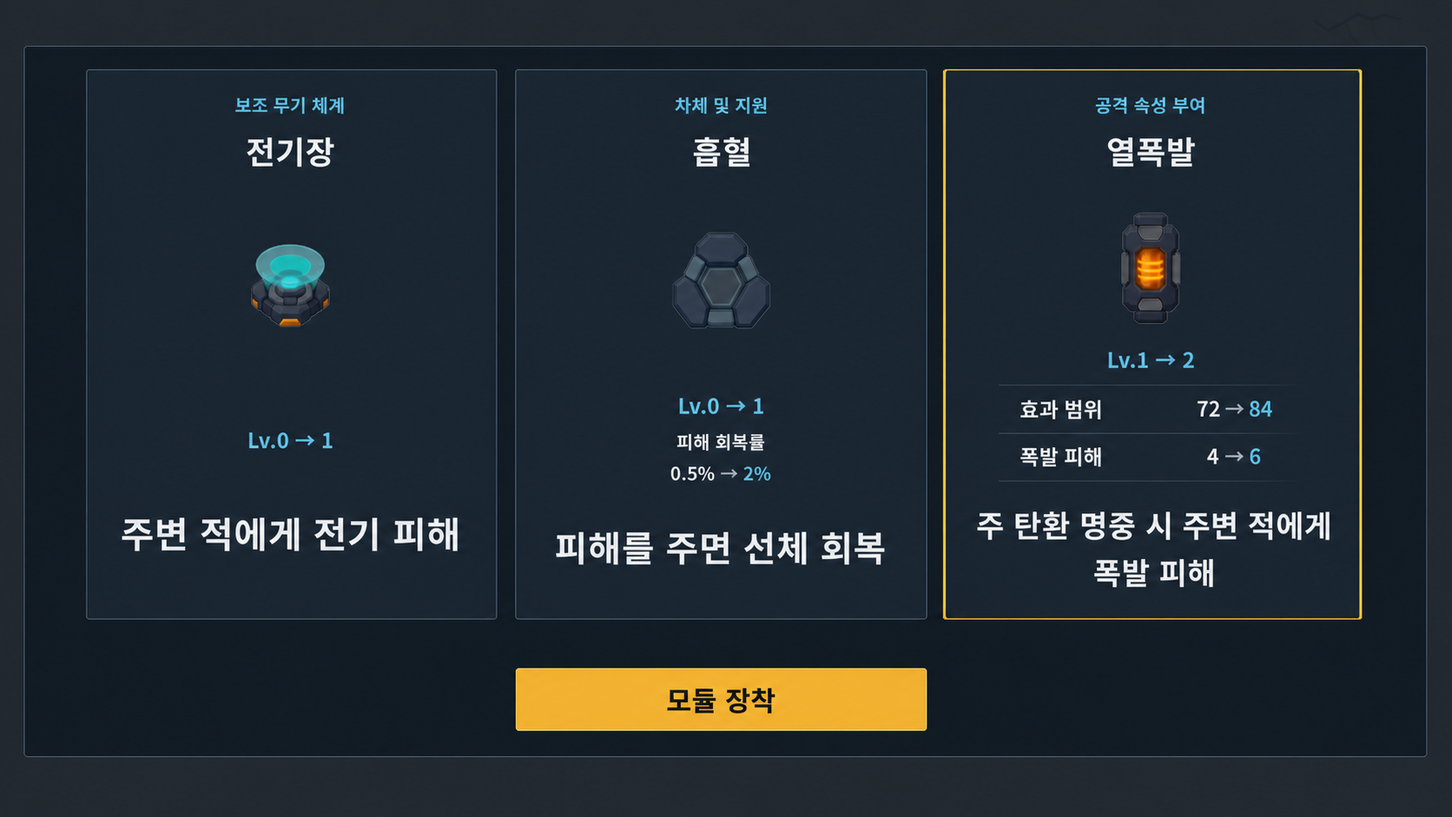
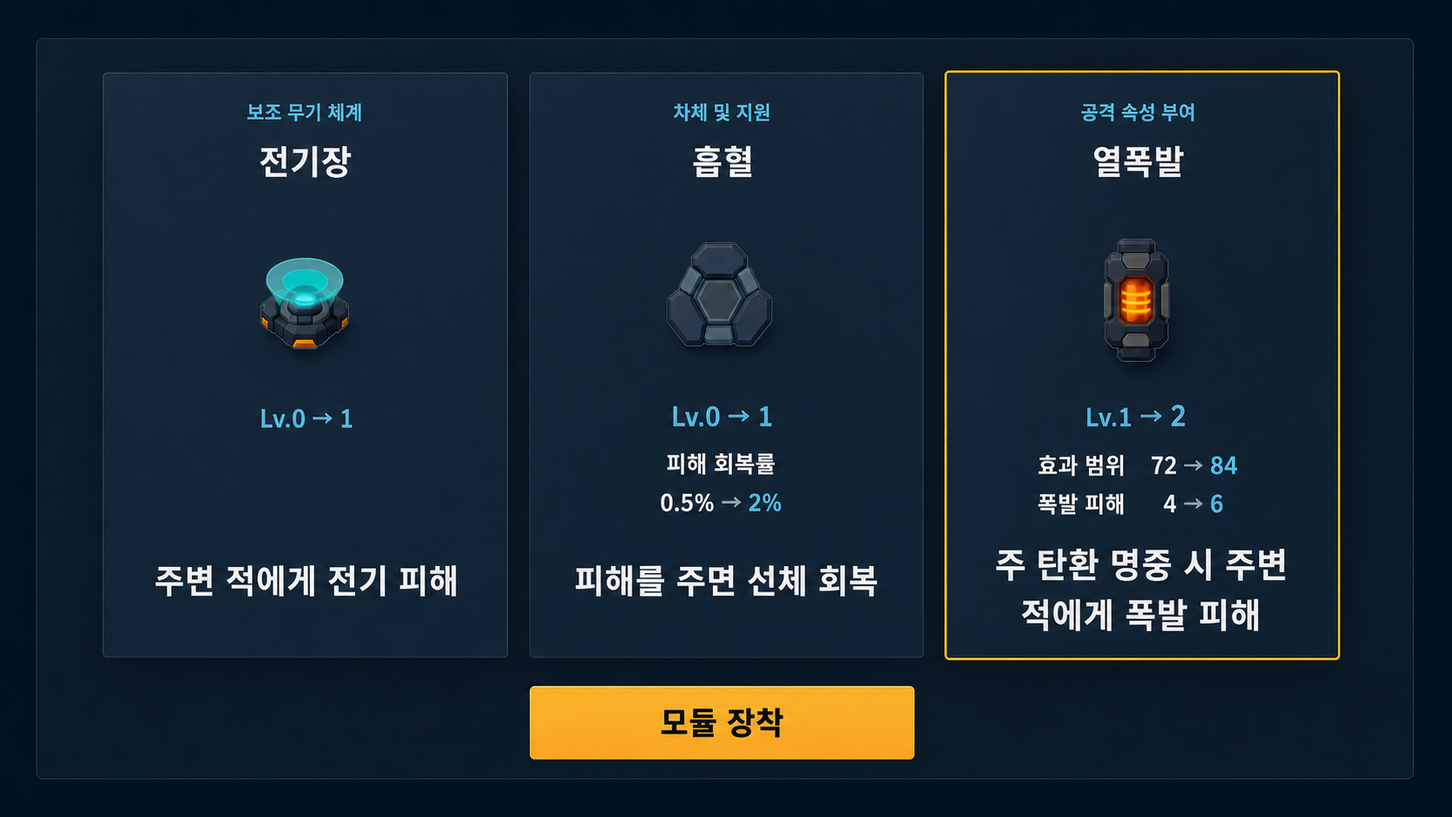
docs: revise combat feedback mockups

diff --git a/.agents/execplans/2026-08-08-combat-pressure-and-surface-depth.md b/.agents/execplans/2026-08-08-combat-pressure-and-surface-depth.md
@@ -20,11 +20,12 @@ Deliver a harder-to-cheese but less front-loaded five-stage run and restore the 
 feedback loop. The completed portion removes neutral hazards, applies the selected ordinary-health
 curve, makes role movement distance-aware, strengthens boss shielding, replaces Thermal Burn with
 bounded Thermal Burst damage, integrates sparse approved surface detail, and replaces the boxed
-straight-beam strip. The remaining portion restores visible XP progress, prevents late-run level
+straight-beam strip. The remaining portion restores unmistakable XP progress, prevents late-run level
 rewards from disappearing when fewer than three legal cards remain, makes elemental upgrades show
 their real current-to-next values, restores restrained nearby-enemy direction cues, differentiates
-minimap roles, adds bounded elemental hit feedback, and stops the boss shield from masking authored
-boss bodies. The verified implementation baseline for this revision is `b9a41aee`; current HEAD
+minimap roles, makes Electric Field show its complete damage area without reading as a shield, adds
+bounded elemental hit feedback, and stops the boss shield from masking authored boss bodies. The
+verified implementation baseline for this revision is `b9a41aee`; current HEAD
 still has no eligible native/Web release-performance qualification, so the exact final workload is
 measured once after all remaining behavior and visual work is complete.
 
@@ -34,7 +35,7 @@ measured once after all remaining behavior and visual work is complete.
   elemental, surface, beam, and frame-pacing outcomes as one decision-complete sequence with
   independent causal commits.
 - Deliverable: updated gameplay and movement rules; a truthful bilingual XP and upgrade flow;
-  retained HUD, threat-radar, minimap, projectile, status, and shield presentation; approved
+  retained HUD, threat-radar, minimap, Electric Field, projectile, status, and shield presentation; approved
   production surface SVGs, beam raster, and any separately approved Thermal impact raster;
   focused validators; production Web export; and eligible native/Web performance evidence.
 - Completion state: neutral hazards no longer exist; ordinary health uses the locked five-stage
@@ -42,7 +43,9 @@ measured once after all remaining behavior and visual work is complete.
   damage and remain visually identifiable; Thermal Burst applies bounded enemy-only splash with
   bounded impact feedback; XP progress and late-run rewards never disappear silently; upgrade
   copy shows true level deltas; nearby off-screen enemies and distinct minimap roles are readable;
-  Toxin/Cryo states are visible without per-enemy nodes; the floor and straight beams retain the
+  Electric Field fills the exact `120/140/160` damage disk in Arc purple instead of reusing shield
+  language; Toxin/Cryo states are visible as same-silhouette translucent body overlays without
+  per-enemy nodes; the floor and straight beams retain the
   approved presentation; and all correctness, visual, export, and performance gates pass from the
   exact clean final commit.
 
@@ -70,8 +73,9 @@ In scope:
 - Replace the current dark-bordered `cue/beam_strip_9` raster with a tintable flat alpha mask and
   retune the existing two-plane startup/three-plane active composition for Beam Sentinel and boss
   straight beams.
-- Restore a slim panel-free XP rail and level value under the top-center hull/upgrade zone. Publish
-  XP through the reusable fast-HUD snapshot instead of rebuilding the full build snapshot.
+- Restore a slim panel-free XP rail and level value under the top-center hull/upgrade zone. Label
+  the value with the literal `EXP` so the rail cannot be mistaken for the hull bar. Publish XP
+  through the reusable fast-HUD snapshot instead of rebuilding the full build snapshot.
 - Permit one, two, or three legal upgrade choices near catalog exhaustion. Show an explicit
   localized `MAX` progression state only when zero compatible upgrades remain; never consume a
   pending level through a warning-only path.
@@ -82,9 +86,13 @@ In scope:
 - Expand the minimap's bounded semantic roles to distinguish field pickup, reward crate, Mystery
   Device, mobile enemy, fixed priority enemy, boss, and reinforcement facility by shape as well as
   color.
+- Replace the current Mint Electric Field ring with an Arc-purple, ground-attached, low-alpha filled
+  disk at the exact `120/140/160` gameplay radii. The enemy body-overlap rule remains gameplay truth;
+  the visual adds no collision owner and does not reuse player/enemy shield geometry.
 - Add one separately approved, bounded Thermal impact identity at the direct hit point and add
-  Toxin/Cryo application and persistent status tint through retained enemy-batch data. Do not add
-  one node, raster, or timer object per affected enemy.
+  Toxin/Cryo application and persistent status tint as a same-size, actor-alpha-clipped overlay
+  composed through retained enemy-batch data. Do not add one node, raster, material, or timer object
+  per affected enemy.
 - Reduce the shared boss-shield overlay's visual dominance and give the boss minimap marker a
   command-color notched shape. Preserve the five existing authored boss PNG identities.
 - Diagnose the reported hitch from eligible evidence and make only an evidence-selected,
@@ -106,8 +114,8 @@ Out of scope:
 - A Thermal world-radius telegraph, persistent ring, particle system, new sound asset, per-splash-
   target effect, or frame-animation pack. The permitted impact is one short authored identity at
   each eligible direct hit, scaled to the actual burst radius.
-- Persistent Toxin/Cryo rings, status icons, orbit markers, per-enemy labels, repeated strobing,
-  damage numbers, or separate status rasters.
+- Persistent Toxin/Cryo rings, outlines, enlarged silhouettes, status icons, orbit markers,
+  per-enemy labels, repeated strobing, damage numbers, or separate status rasters.
 - Recoloring the Seeker as if it inherited the selected primary element; its authored identity and
   gameplay payload remain separate from player-primary affinity.
 - Redrawing the five boss bodies in this pass. If shield reduction does not reveal their existing
@@ -139,10 +147,13 @@ Constraints and invariants:
 - The world renderer stays retained. Surface instances use at most three existing-style
   `MultiMeshInstance2D` batches, zero per-instance nodes, zero per-frame transform updates, and
   keep `MAX_VISUAL_BATCHES <= 12`.
-- Minimap and threat feedback remain code-native retained meshes. Status feedback is composed into
-  existing enemy instance colors. Thermal impact uses the fixed 96-state effect store with a
+- Minimap and threat feedback remain code-native retained meshes. Electric Field uses one bounded
+  retained code-native area batch because it visualizes collision-owned radius truth; it creates no
+  per-frame or per-target nodes and stays beneath actors. Status feedback is composed into existing
+  enemy instance colors with the authored body alpha acting as the exact overlay mask. Thermal
+  impact uses the fixed 96-state effect store with a
   dedicated live cosmetic sub-limit and must never evict EMP charge/release state.
-- The four images under
+- The five images under
   `docs/design/visual-replacement-workbench/candidates/progression-feedback-combat-readability-v1/`
   are approval-before-implementation composition references only. They do not approve production
   pixels, replace exact runtime capture, or override this contract.
@@ -204,14 +215,15 @@ Exact actions requiring owner or user approval:
 | Comparable-game evidence | Official Into the Breach material supports deterministic, immediately readable combat; public primary sources for Into the Breach, Wasteland Kings, and Spelunky do not disclose exact floor-decal batching. | GDC postmortem and official game pages; Godot official docs | Do not claim an unverified clone technique. Use comparable games only for sparse/readable/deterministic principles; choose the renderer from Cardborne architecture and official Godot guidance. | 5.1, 6.4 |
 | Reported hitch | Current HEAD has no eligible performance JSON. The last eligible older sample showed frame p95 143 ms with physics catch-up and simulation/HUD cost while render CPU/GPU were low. Later allocator prewarm improved a diagnostic but was never release-qualified. On 2026-08-08, 16 unrelated Godot processes prevented a clean run. | Active performance plan; runtime architecture audit; historical JSON | Make no current root-cause claim. First qualify clean current HEAD, then repeat after all feature work. Optimize only the subsystem selected by a valid trace/sample; never blame new PNGs by intuition. | 1.1-1.4, 10.3-10.4 |
 | Performance fixture mismatch | Renderer capacity and visual contract are 28 health overlays, but the performance scenario and its validator still require 50. Release batch threshold remains at most 50. | combat renderer, visual system, renderer validator, performance scenario and validator | Change only the scenario fixture expectation from 50 to 28; retain the release threshold `batches <= 50`. A failing focused validator blocks all expensive samples. | 1.1 |
-| Missing XP feedback | `VehicleExperienceRuntime` still advances levels with the capped formula `min(160, 12 + round(3n + 0.55n^2))`. `VehicleGameplayHud.HealthPips` still stores XP fields, but `_fill_fast_hud_snapshot` omits them and `debug_contract()` asserts `has_experience_geometry=false`; the product and visual specs explicitly removed the rail. | `scripts/progression/vehicle_experience_runtime.gd`; `scripts/vehicle/vehicle_run.gd`; `scripts/ui/vehicle_gameplay_hud.gd`; product/visual specs | Restore a slim panel-free XP rail and level value in the existing top-center zone. Publish only scalar level/current/required/MAX fields through the fast HUD snapshot; do not rebuild the full build summary at HUD cadence. | 7.1-7.2 |
+| Missing XP feedback | `VehicleExperienceRuntime` still advances levels with the capped formula `min(160, 12 + round(3n + 0.55n^2))`. `VehicleGameplayHud.HealthPips` still stores XP fields, but `_fill_fast_hud_snapshot` omits them and `debug_contract()` asserts `has_experience_geometry=false`; the product and visual specs explicitly removed the rail. | `scripts/progression/vehicle_experience_runtime.gd`; `scripts/vehicle/vehicle_run.gd`; `scripts/ui/vehicle_gameplay_hud.gd`; product/visual specs | Restore a slim panel-free XP rail and level value in the existing top-center zone. Show literal `EXP` beside the numeric value so it cannot read as a second hull bar. Publish only scalar level/current/required/MAX fields through the fast HUD snapshot; do not rebuild the full build summary at HUD cadence. | 7.1-7.2 |
 | Stage 4 level-up symptom | XP collection and stage gains have no Stage 4 cap. The failure is the reward gate: `_open_upgrade_reward()` requires exactly three cards and otherwise logs a warning, resolves the transaction, and `consume_pending_level()` removes the pending level. Catalog compatibility shrinks late in a run due to max levels, element exclusion, and optional-secondary limits. | `VehicleRun._open_upgrade_reward/_resolve_reward_transaction`; `VehicleUpgradeCatalog.offer`; experience/upgrade validators | Accept one to three legal cards and center only visible cards. Zero legal cards enters an explicit localized progression-complete `MAX` receipt, stops future XP drops/awards, and never uses a warning-only silent consume path. | 7.1, 7.4 |
 | Element card truth | The presenter can distinguish `unlock` and `enhance`, but element resources have no stat modifiers, so their visible descriptions remain static and show no real level deltas. Runtime values live only in `VehicleElementProfile`: Thermal radius `72/84/96`, damage `4/6/8`; Toxin DPS/stack `2/3/4`, duration `5/6/7`; Cryo slow/stack `6/8/10%`, duration `2/2.5/3`, with boss Chill effectiveness halved. | `vehicle_upgrade_offer_presenter.gd`; element card resources; `vehicle_element_profile.gd`; `vehicle_status_runtime.gd` | Make one gameplay-owned level-value descriptor consumable by runtime and offer presenter. First acquisition shows behavior plus initial values; enhancements show exact current-to-next rows. Korean and English remain complete; UI does not copy value arrays. | 7.3-7.4 |
 | Nearby direction cue | Commit `b9e66b86` narrowed threat radar to unseen committed projectile attacks and boss arrival. The retained mesh still has 12 sectors, a 1200-unit maximum, sector aggregation, and five-hertz publication. Ordinary off-screen location is minimap-only. | `VehicleRun._threat_radar_snapshot`; `VehicleThreatRadar`; `VehicleCombatCuePolicy`; git history | Add low-priority `nearby_enemy` contacts only for nearby enemies outside the viewport. Aggregate by existing sectors, vary width by density/proximity, draw no triangle, and let incoming attack and boss arrival win the sector. Visible enemies remain excluded and the minimap owns exact location. | 8.1-8.2 |
 | Minimap role collapse | Snapshot creation emits pickups, crates, and intact Mystery Devices as `item`; mobile and fixed ordinary enemies as `enemy`; builder supports only item/enemy/boss/facility plus player. The large neutral Mystery Device can therefore disappear into pickup semantics. Boss differs mainly by size. | `VehicleRun._minimap_snapshot/_runtime_minimap_snapshot`; `VehicleMinimapMeshBuilder`; UI glyph catalog | Use eight bounded roles: player, field pickup, reward crate, Mystery Device, mobile enemy, fixed priority enemy, boss, and reinforcement facility. Distinguish shape as well as semantic color; keep Mystery Device outcome hidden; use one notched command-magenta boss marker instead of arbitrary per-stage colors. | 8.1, 8.3-8.4 |
-| Projectile affinity and persistent status feedback | Player-primary projectile tint already follows Thermal/Toxin/Cryo; Seeker and hostile bolt intentionally keep authored identities. Generic enemy hit feedback is a short common flash. Renderer input does not expose Toxin/Chill stacks or application time, so persistent status has no direct body feedback. | `VehicleCombatRenderer`; `VehicleAttackContract`; `VehicleStatusRuntime`; current renderer/status validators | Preserve primary-only affinity tint and Seeker identity. Publish bounded status stack ratios plus one application pulse receipt in the enemy presentation frame; compose Toxin/Cryo tint into existing instance colors. Generic damage flash wins briefly, then status tint returns. Reduced motion removes the pulse/strobe but preserves static state tint. | 9.2-9.3, 9.5 |
-| Boss visual identity | Five boss variants already resolve separate authored PNGs. The shared large opaque magenta shield boundary masks their silhouette and makes them read alike. The minimap boss marker is a larger plain hexagon. | actor visual catalog; combat renderer; current boss captures; `boss-shield-readability-to-be.png` | Preserve all boss PNGs. Reduce shield fill/thickness/opacity to one restrained body-attached boundary, then validate all five at 1x and grayscale. Change only the minimap marker to a notched command shape. Open per-boss art replacement only if authored bodies remain indistinct after the shield fix. | 8.3-8.4, 9.4-9.5 |
-| TO-BE visual evidence | The latest production capture set is the Korean 87-image `beam-production-655e0ee2` set. It predates `b9a41aee` only by documentation/workbench and Thermal-copy changes. Four ImageGen edits used the relevant current capture and the canonical sheet as actual referenced images. | `docs/design/visual-replacement-workbench/candidates/progression-feedback-combat-readability-v1/README.md`; capture manifest; git diff `655e0ee2..b9a41aee` | Use the four images for composition, hierarchy, and expected-state discussion only. Runtime owners, exact copy, supported viewports, and task acceptance below remain binding; no generated pixels are production-approved. | 7.2-9.5 |
+| Electric Field area and shield collision | `VehicleSecondaryRuntime` damages every eligible enemy whose body overlaps radii `120/140/160` at a `0.25s` tick and passes line of sight. `VehicleCombatRenderer` duplicates those radii in `ELECTRIC_FIELD_RADII` and draws only a Mint `cue/ring` at alpha `0.48`. Player barrier and enemy shields use the same Mint ring family, so the damage field reads as protection and its interior is visually empty. | `data/weapons/vehicle/secondary/electric_field.tres`; `scripts/player/vehicle_secondary_runtime.gd`; `scripts/presentation/vehicle_combat_renderer.gd`; `30-boss-04-stage-4-active.png` | Make the secondary definition/snapshot the single radius source. Draw one low-alpha Arc-purple filled disk below actors at `120/140/160`, with one restrained broken perimeter and at most four broad internal planes. The disk represents the field volume; damage still begins when an enemy body overlaps it. Do not reuse Mint/support shield geometry or create a second collision owner. | 8.1, 9.4, 9.6 |
+| Projectile affinity and persistent status feedback | Player-primary projectile tint already follows Thermal/Toxin/Cryo; Seeker and hostile bolt intentionally keep authored identities. Generic enemy hit feedback is a short common flash. Renderer input does not expose Toxin/Chill stacks or application time, so persistent status has no direct body feedback. | `VehicleCombatRenderer`; `VehicleAttackContract`; `VehicleStatusRuntime`; current renderer/status validators | Preserve primary-only affinity tint and Seeker identity. Publish bounded status stack ratios plus one application pulse receipt in the enemy presentation frame. Visually treat the actor's authored alpha as an exact same-size overlay mask: no enlarged silhouette, perimeter, halo, or external geometry. Generic damage flash wins briefly, then the Toxin/Cryo body overlay returns. Reduced motion removes the pulse change but preserves the static overlay. | 9.2-9.3, 9.6 |
+| Boss visual identity | Five boss variants already resolve separate authored PNGs. The shared large opaque magenta shield boundary masks their silhouette and makes them read alike. The minimap boss marker is a larger plain hexagon. | actor visual catalog; combat renderer; current boss captures; `boss-shield-readability-to-be.png` | Preserve all boss PNGs. Reduce shield fill/thickness/opacity to one restrained body-attached boundary, then validate all five at 1x and grayscale. Change only the minimap marker to a notched command shape. Open per-boss art replacement only if authored bodies remain indistinct after the shield fix. | 8.3-8.4, 9.5-9.6 |
+| TO-BE visual evidence | The latest production capture set is the Korean 87-image `beam-production-655e0ee2` set. It predates `b9a41aee` only by documentation/workbench and Thermal-copy changes. Five ImageGen edits used the relevant current capture and the canonical sheet as actual referenced images. The first over-scaled combined HUD/field generation was rejected and not copied into the repository. | `docs/design/visual-replacement-workbench/candidates/progression-feedback-combat-readability-v1/README.md`; capture manifest; git diff `655e0ee2..b9a41aee` | Use the five repository images for composition, hierarchy, and expected-state discussion only. Runtime owners, exact copy, supported viewports, and task acceptance below remain binding; no generated pixels are production-approved. | 7.2-9.6 |
 
 Readiness statement:
 
@@ -227,7 +239,7 @@ Readiness statement:
   the canonical sheet was inspected at original detail; expected and observed SHA-256 are both
[1 lines of base64/hex data omitted]
   `actual_image_reference_used=true`; reference input method was
-  `image_gen.referenced_image_paths`. All four generated images remain preview-only. For the exact
+  `image_gen.referenced_image_paths`. All five generated images remain preview-only. For the exact
   approved SurfaceDetail SVG exception, `actual_image_reference_used=false`, reference input
   method is `deterministic_surface_detail_svg_exception`, the generator and fixed seeds are
   checked in, and the three selected hashes are recorded above.
@@ -656,9 +668,10 @@ visual specs, and focused XP/upgrade/HUD validators
   - Change: add `level`, `experience`, `experience_required`, and `experience_complete` scalars to
     the reusable fast HUD frame. Draw a panel-free meter below the acquired-upgrade rail in the
     existing top-center zone: compact/standard/large track widths `280/360/420`, height `6/8/8`,
-    current amber fill, dark track, `Lv. N` at left and `current / required` at right. Put `MAX` in
-    the value position when complete. Let the rail follow one- or two-row acquired-upgrade height
-    and keep the toast stack four pixels below it.
+    current amber fill, dark track, `Lv. N` at left and `EXP current / required` at right. The literal
+    `EXP` label is mandatory at every supported width. Put `EXP MAX` in the value position when
+    complete. Let the rail follow one- or two-row acquired-upgrade height and keep the toast stack
+    four pixels below it.
   - Accept: collection updates within the existing fast-HUD cadence; no full build snapshot,
     catalog scan, node rebuild, or allocation occurs per update. The rail fits with 0, 12, and 18
     acquired upgrades at `960x540`, `1280x720`, `1920x1080`, and 200% text without overlapping the
@@ -673,7 +686,9 @@ visual specs, and focused XP/upgrade/HUD validators
     initial values without a false zero-to-value delta; later offers show current-to-next values;
     level three is never offered. Visible row labels are `효과 범위 / Effect radius`,
     `폭발 피해 / Burst damage`, `중독 피해/중첩 / Toxin damage/stack`,
-    `지속 시간 / Duration`, and `감속/중첩 / Slow/stack`.
+    `지속 시간 / Duration`, and `감속/중첩 / Slow/stack`. Separate every card section and effect
+    row with vertical spacing and alignment only. An upgrade card may contain zero horizontal
+    separators, dividers, rules, underlines, row boxes, or line-like background bars in every state.
   - Accept: runtime profile values, card rows, Korean/English labels, build snapshot, stage report,
     and validators all derive identical numbers. Boss Chill's existing half-effect rule is stated
     in accessible/detail copy without changing the displayed base player-owned value.
@@ -711,9 +726,10 @@ Source owners: `docs/product/vehicle_game_spec.md`, `docs/design/VISUAL_SYSTEM.m
 
 - [ ] **8.1** Amend the visual contract narrowly before runtime changes.
   - Change: replace the absolute no-XP, incoming-only radar, five-marker minimap, three-card-only
-    modal, three-effect-only, and text-only persistent-status clauses with the bounded contracts in
-    Phases 7-9. Preserve sparse HUD, one minimap Surface, no full radar circle, no per-enemy status
-    node, no decorative markers, and exact visual-authority/approval requirements.
+    modal, shared-ring Electric Field, three-effect-only, and text-only persistent-status clauses
+    with the bounded contracts in Phases 7-9. Preserve sparse HUD, one minimap Surface, no full
+    radar circle, no per-enemy status node/material, no decorative markers, zero internal upgrade-
+    card horizontal separators, and exact visual-authority/approval requirements.
   - Accept: product and visual specs describe the same reachable states, localization, ownership,
     reduced-motion behavior, capacities, and non-goals; visual-authority validation passes.
 - [ ] **8.2** Add low-priority nearby-enemy contacts to the retained threat radar.
@@ -748,10 +764,10 @@ Source owners: `docs/product/vehicle_game_spec.md`, `docs/design/VISUAL_SYSTEM.m
     grayscale, and reduced-motion review matches the hierarchy in
     `gameplay-hud-minimap-to-be.png` without reproducing its generated pixels.
 
-### Phase 9: Add bounded elemental feedback and reveal boss identity
+### Phase 9: Add bounded elemental feedback, distinguish Electric Field, and reveal boss identity
 
-Goal: make selected-element hits and persistent statuses visible without turning hit feedback into
-an effect storm or hiding boss bodies behind their shields.
+Goal: make selected-element hits and persistent statuses visible, show the complete Electric Field
+damage area without shield ambiguity, and keep boss bodies readable without creating an effect storm.
 
 Preconditions:
 
@@ -762,8 +778,10 @@ Preconditions:
 Source owners: `scripts/combat/vehicle_element_profile.gd`,
 `scripts/combat/vehicle_status_runtime.gd`, enemy state/presentation snapshots,
 `scripts/combat/vehicle_effect_store.gd`, effect/asset catalogs and manifest,
+`data/weapons/vehicle/secondary/electric_field.tres`,
+`scripts/player/vehicle_secondary_runtime.gd`,
 `scripts/presentation/vehicle_combat_renderer.gd`, boss actor catalog, workbench evidence,
-localization, capture fixtures, and focused status/effect/renderer validators
+localization, capture fixtures, and focused secondary/status/effect/renderer validators
 
 - [ ] **9.1** Author and approve one Thermal impact identity.
   - Change: open a dedicated workbench unit for a transparent `192x192` Thermal Burst impact PNG
@@ -787,15 +805,37 @@ localization, capture fixtures, and focused status/effect/renderer validators
     input.
 - [ ] **9.3** Compose Toxin and Cryo state into existing enemy batches.
   - Change: add bounded scalar presentation fields for Toxin/Cryo stack ratio and a `0.16s`
-    application pulse receipt. Mix semantic Toxin/Cryo color into the existing actor instance color
-    at `0.12/0.16/0.20` for stacks 1/2/3; the short application pulse may reach `0.32`. Generic
-    direct-damage flash wins during its existing `0.11s`, then persistent tint returns. Reduced
-    motion omits the pulse boost and keeps only static tint. Do not add status raster, ring, icon,
-    label, node, material, or repeated strobe.
+    application pulse receipt. Compose semantic Toxin/Cryo color through the existing actor
+    instance at `0.12/0.16/0.20` for stacks 1/2/3; this must look exactly like a translucent layer
+    clipped by the authored sprite alpha at the same transform, scale, and silhouette. The short
+    application pulse may reach `0.32`. It changes only overlay alpha and never expands the actor.
+    Generic direct-damage flash wins during its existing `0.11s`, then persistent overlay returns.
+    Reduced motion omits the pulse boost and keeps only the static overlay. Do not add a second
+    draw, status raster, outline, halo, enlarged silhouette, ring, icon, label, node, material, or
+    repeated strobe.
   - Accept: stack gain, refresh, expiry, boss half-Chill, pooled enemy retirement/reuse, generic
     damage flash, stealth/visibility, and grayscale/affinity tests all show correct state with no
-    stale tint. Renderer consumes staged snapshot scalars and never reads live status dictionaries.
-- [ ] **9.4** Reduce boss-shield dominance before considering new boss art.
+    stale tint. Pixel-mask comparison confirms every colored overlay pixel remains inside the
+    unchanged actor alpha and footprint. Renderer consumes staged snapshot scalars and never reads
+    live status dictionaries.
+- [ ] **9.4** Replace the shield-like Electric Field ring with its complete damage area.
+  - Change: remove renderer-owned `ELECTRIC_FIELD_RADII` duplication and publish the selected
+    secondary definition radius `120/140/160` in the borrowed presentation snapshot. Add one
+    capacity-one retained code-native field-area batch below actors: Arc-purple fill alpha `0.10`,
+    one broken perimeter at alpha `0.28`, and at most four broad internal planes at alpha `0.04`.
+    All geometry stays within the exact radius and moves with the player. It has no collision,
+    query, timer, damage, or target owner. Preserve the runtime's `0.25s` tick, LOS test, and enemy-
+    body overlap check `radius + enemy.radius`.
+  - Accept: levels 1/2/3 measure exactly `120/140/160` world units in debug-overlay captures; the
+    full interior is visible at 1x, every eligible overlapping enemy can be visually explained, and
+    player barrier/enemy shield remains Mint while Electric Field is Arc purple and ground-attached.
+    No cyan/mint field, hollow donut, body-hugging bubble, glow, particle spray, repeated ring, or
+    second collision truth remains. The added field batch is one retained instance and the existing
+    combat/draw-call budgets remain unchanged.
+  - Guard: if the filled alpha causes a measurable fill-rate or readability regression, reduce only
+    the locked fill/perimeter alpha within the accepted hierarchy after an eligible comparison; do
+    not shrink the visual below the damage radius, reduce damage radius, or restore the shield ring.
+- [ ] **9.5** Reduce boss-shield dominance before considering new boss art.
   - Change: preserve the five boss PNGs and current batch. Reuse the shared authored ring but change
     the boss-only shield write from alpha `0.90` to `0.38` and radius offset from `+12` to `+8`;
     preserve shield-down absence and existing hit feedback. Add no shield node, module, objective,
@@ -806,15 +846,17 @@ localization, capture fixtures, and focused status/effect/renderer validators
   - Guard: if the existing ring remains too thick or masks a boss after the exact retune, stop and
     open one dedicated shared boss-boundary raster workbench unit. Do not draw replacement geometry
     procedurally or redraw boss bodies by inference.
-- [ ] **9.5** Capture every elemental and boss state under real pressure.
+- [ ] **9.6** Capture every elemental, Electric Field, and boss state under real pressure.
   - Change: add deterministic fixtures for Thermal levels 1-3 at direct hit and crowded splash,
-    Toxin/Cryo stacks 1-3 at application/persistent/expiry, reduced motion, saturated effect store
-    with EMP, and all five bosses shield-up/down/hit. Capture affinity-colored player-primary shots
-    and the unchanged authored Seeker identity.
+    Toxin/Cryo stacks 1-3 at application/persistent/expiry, Electric Field levels 1-3 beside player
+    barrier and enemy shield, reduced motion, saturated effect store with EMP, and all five bosses
+    shield-up/down/hit. Capture affinity-colored player-primary shots and the unchanged authored
+    Seeker identity.
   - Accept: status, attack, effect-store, combat renderer, damage feedback, boss, visual provider,
     manifest/workbench, capture, reduced-motion, visual-authority, and Run validators pass. Actual-
-    size results preserve the hierarchy shown by `elemental-hit-feedback-to-be.png` and
-    `boss-shield-readability-to-be.png` while respecting their documented limitations.
+    size results preserve the hierarchy shown by `elemental-hit-feedback-to-be.png`,
+    `electric-field-to-be.png`, and `boss-shield-readability-to-be.png` while respecting their
+    documented limitations.
 
 Batch gate:
 
@@ -853,14 +895,15 @@ scenarios, active performance policy/evidence records
   - Change: use production-style native and built Web paths to check all five ordinary-health
     stages; absence of neutral hazards; pursuit/standoff around cover; XP collection and tail
     offers through MAX; one shield-up/down boss cycle for every boss; Beam Sentinel and boss beam
-    startup/active; Thermal Burst at all levels in a crowd and near a structure; Toxin/Cryo stack
-    feedback; bilingual cards; radar/minimap roles; and surface readability at actual size and
-    grayscale.
+    startup/active; Thermal Burst at all levels in a crowd and near a structure; Toxin/Cryo same-
+    silhouette overlays; Electric Field levels 1-3 beside a barrier and shield; bilingual cards;
+    radar/minimap roles; and surface readability at actual size and grayscale.
   - Accept: the opening is less spongy; later health growth is observable; melee closes and ranged
     holds distance; no level reward disappears; element values match runtime; nearby direction and
     exact minimap roles do not compete; boss bodies remain readable; burst never double-hits,
-    chains, or damages structures; status tint never persists after state expiry; and detail never
-    reads as collision or combat signal.
+    chains, or damages structures; status overlay never escapes the actor alpha or persists after
+    state expiry; Electric Field fills the exact damage disk without reading as a shield; and detail
+    never reads as collision or combat signal.
   - Progress: the pre-revision 87-image Korean `1280x720` native capture verifies the completed
     beam/surface/boss fixture set. User-controlled movement feel, the new progression/readability
     states, explicit grayscale review, and interactive built-Web play remain open.
@@ -870,8 +913,8 @@ scenarios, active performance policy/evidence records
     save raw JSON unchanged.
   - Accept: both final samples pass the unchanged release thresholds and declared workloads.
   - Guard: hazard removal, steering, splash queries, three surface batches, XP/radar/minimap data,
-    Thermal effects, status tint, and shield presentation all change the final workload. No earlier
-    sample qualifies the final commit.
+    Thermal effects, status overlay, Electric Field area, and shield presentation all change the
+    final workload. No earlier sample qualifies the final commit.
   - Deferred precondition: a pre-existing normal `Cardborne (DEBUG)` Godot run blocked the last
     isolated sample. Resume only after it closes; do not terminate it by inference.
 - [ ] **10.4** Diagnose and correct only a valid red owner, then qualify built Web.
@@ -899,7 +942,7 @@ scenarios, active performance policy/evidence records
 | Visual phase gate | Production manifest, workbench, world visual, field/stage layout, combat renderer, attack readability, capture, import, and `validate_cardborne_visual_authority.ps1` | Contract changes in Phase 5 and approved surface/beam integration in Phase 6 | Visual contract, raster, manifest, placement, renderer, or capture changes |
 | Progression phase gate | Experience, upgrade catalog/system/presenter/UI, HUD presenter/layout, localization, stage transition, reward/audio, build/report, capture, and Run validators | Phase 7 tasks pass | XP, reward transaction, offer compatibility, element values/copy, HUD geometry, or localization changes |
 | HUD and minimap phase gate | Threat radar, combat cue policy, minimap builder/retained mesh, glyph catalog, HUD presenter/layout, capture, visual registry, visual authority, and Run validators | Phase 8 tasks pass | Contact sampling/priority, marker roles/geometry, HUD layout, or visual contract changes |
-| Combat-feedback phase gate | Element/status, attack, effect store, damage feedback, renderer, boss, provider/manifest/workbench, capture, reduced motion, visual authority, and Run validators | Phase 9 tasks and exact Thermal approval pass | Effect source/hash/import, effect allocation, status snapshot/tint, shield overlay, or capture changes |
+| Combat-feedback phase gate | Element/status, secondary weapon, attack, effect store, damage feedback, renderer, boss, provider/manifest/workbench, capture, reduced motion, visual authority, and Run validators | Phase 9 tasks and exact Thermal approval pass | Effect source/hash/import, effect allocation, status snapshot/overlay, Electric Field geometry/radius, shield overlay, or capture changes |
 | Export gate | `./tools/godot.ps1 --path . --headless --import`; `./tools/export_web.ps1`; require `WEB_EXPORT_OK` | Once after all feature phases and affected focused validators pass | An imported asset, export-affecting source, or project setting changes |
 | Native performance gate | Exact clean-commit `peak_horde` and `capacity_pressure` protocol in the prerequisite performance plan | Phase 1 baseline and Phase 10 final state, after user cost alignment | Workload/code/asset/instrumentation changes or a sample is invalid/red for a new evidence-backed hypothesis |
 | Web performance gate | Built-Web `peak_horde` on the `codex` lane with exact JSON capture | Native qualification passes and matching Web artifact exists | Native/build/asset/workload changes or the sample is invalid |
@@ -941,7 +984,8 @@ Validation rules:
 | The eight minimap roles are not distinct at 1x/grayscale | Revise marker silhouette inside the locked role set and retained mesh | Do not add per-archetype markers, hidden Mystery Device outcomes, arbitrary boss colors, labels, or a second minimap layer |
 | The exact Thermal impact candidate is rejected | Keep it outside production and regenerate one candidate from the same `192x192`, footprint, plane-count, and no-particle brief | Do not ship the mockup burst, generate an animation pack, author SVG geometry, or replace gameplay values |
 | Thermal impacts saturate the effect store | Recycle/drop Thermal cosmetic receipts within the 24-live sub-limit and preserve damage/EMP | Do not increase capacity, evict EMP, reduce attack activity, or suppress damage |
-| Toxin/Cryo tint hides actor identity or conflicts with hit flash | Lower only the locked status mix/pulse intensity and preserve hit-flash priority in the existing batch | Do not add rings, icons, per-enemy nodes, materials, or repeated strobe |
+| Toxin/Cryo overlay hides actor identity, escapes the actor alpha, or conflicts with hit flash | Lower only the locked overlay/pulse intensity and preserve same-size actor-alpha clipping and hit-flash priority in the existing batch | Do not add outlines, halos, enlarged silhouettes, rings, icons, per-enemy nodes, materials, or repeated strobe |
+| Electric Field reads as a shield or does not explain every damaging overlap | Correct only the field fill, broken perimeter, z-order, or radius-source wiring inside the locked Arc-purple full-disk contract | Do not restore the Mint ring, shrink the visual below `120/140/160`, change the enemy-body overlap rule, or add particles/glow |
 | Boss remains obscured after the exact alpha/radius retune | Stop the visual branch and open one shared boss-boundary raster workbench unit under the authority pair | Do not redraw boss bodies, change collision size, or create procedural replacement geometry |
 | A valid current sample is red | Select the largest evidenced owner from slow-frame/subsystem data and make one causal correction | No broad optimization pass and no claim based on historical or invalid samples |
 | A verified material fact contradicts this contract | Stop the affected branch, update the contract, and obtain any required approval before resuming | Do not let the executor choose a new product, architecture, dependency, data, UX, safety, or validation contract |
@@ -961,9 +1005,11 @@ change scope, visible behavior, ownership, architecture, safety, or acceptance.
   promoted unchanged and compile to deterministic 72/72/48 placement across stages in three
   retained batches, and the borderless straight-beam replacement is production-integrated.
   Manifest/provider/world/workbench/visual-authority/Run gates pass for that completed workload.
-  The 2026-08-09 progression/readability discovery gate is complete; its four TO-BE images are
-  preview-only evidence. The unrelated retired-plan lifecycle failure keeps Task 5.3 open pending
-  user-approved cleanup.
+  The 2026-08-09 progression/readability discovery gate is complete; its five revised TO-BE images
+  are preview-only evidence. The XP rail now carries a literal `EXP` label, the Electric Field has
+  a separate radius-preserving full-area reference, upgrade cards contain no horizontal separator,
+  and Toxin/Cryo references use same-size body overlays. The unrelated retired-plan lifecycle
+  failure keeps Task 5.3 open pending user-approved cleanup.
 - Update rule: after a checkpoint passes, record concise evidence, check the task, and advance this
   pointer in the same edit.
 

diff --git a/docs/design/visual-replacement-workbench/candidates/progression-feedback-combat-readability-v1/README.md b/docs/design/visual-replacement-workbench/candidates/progression-feedback-combat-readability-v1/README.md
@@ -13,7 +13,7 @@ related:
 
 ## Purpose
 
-These images make the planned HUD, upgrade, elemental-feedback, minimap, and boss-shield
+These images make the planned HUD, upgrade, Electric Field, elemental-feedback, minimap, and boss-shield
 changes concrete before implementation. They are composition and hierarchy references only.
 They are not production assets, runtime acceptance captures, per-asset approvals, or permission
 to replace existing authored actor art.
@@ -34,19 +34,27 @@ to replace existing authored actor art.
   geometry.
 - Generation mode: built-in ImageGen with the AS-IS capture as edit target and the canonical
   sheet as style-grammar reference. No SVG or ImageMagick geometry was used.
+- Revision input: direct user corrections on 2026-08-09 require a literal visible XP label, an
+  Electric Field that fills its complete damage area and does not resemble a shield, zero internal
+  horizontal lines in upgrade cards, and same-size actor-clipped Toxin/Cryo overlays. Phase 8.1 of
+  the related execution plan must amend the older no-XP/text-only-status visual clauses before
+  runtime implementation; these evidence images do not silently override the active spec.
 
 ## Findings
 
 | TO-BE image | AS-IS edit target | Prompt set and intended decision | SHA-256 |
 | --- | --- | --- | --- |
[8 lines of base64/hex data omitted]
 
 The images are intentionally separate because each answers a different approval question:
-HUD density, upgrade information hierarchy, elemental state readability, and boss-body
-readability. The execution plan owns exact behavior, copy, sizes, capacities, and validation.
+HUD density, Electric Field range language, upgrade information hierarchy, elemental state
+readability, and boss-body readability. The execution plan owns exact behavior, copy, sizes,
+capacities, and validation. An earlier combined HUD/field generation exaggerated the field across
+most of the viewport; it was rejected during review and was not copied into this folder.
 
 ## Limitations
 
@@ -56,10 +64,18 @@ readability. The execution plan owns exact behavior, copy, sizes, capacities, an
   for shield dominance and marker shape only. Production must preserve the existing five boss
   PNGs and change only their shared shield presentation unless a later exact per-boss workbench
   unit receives approval.
+- The Electric Field image preserves the current screenshot ring's apparent outer footprint for
+  comparison; it is not a measurement oracle. Runtime captures and the collision debug overlay
+  must prove exact `120/140/160` world-unit radii from the secondary definition. Enemy damage still
+  begins when the enemy body overlaps that disk, so the enemy radius remains part of hit testing.
 - The elemental triptych is a comparison board, not a reachable simultaneous runtime state.
   Cardborne still permits only one selected primary element at a time.
-- The visible Toxin and Cryo outlines illustrate a short application pulse. They do not authorize
-  a persistent ring, separate status raster, orbit icon, particle system, or repeated strobe.
+- The Toxin and Cryo examples authorize only an overlay with the same transform, scale, and alpha
+  silhouette as the unchanged actor. They do not authorize an outline, enlargement, halo,
+  surrounding ring, separate status raster, orbit icon, particle system, or repeated strobe.
+- The vertical rules in the elemental QA comparison board separate examples and are not runtime UI.
+  Upgrade cards must contain no horizontal separator in unlock, enhancement, selected, hover,
+  focus, or disabled states.
 - Mockup typography is not a localization asset. Runtime Korean and English strings remain
   Control-owned and must pass glyph, overflow, and 200% text checks.
 - No image in this folder is approved for the production manifest. Thermal impact art, if used,
